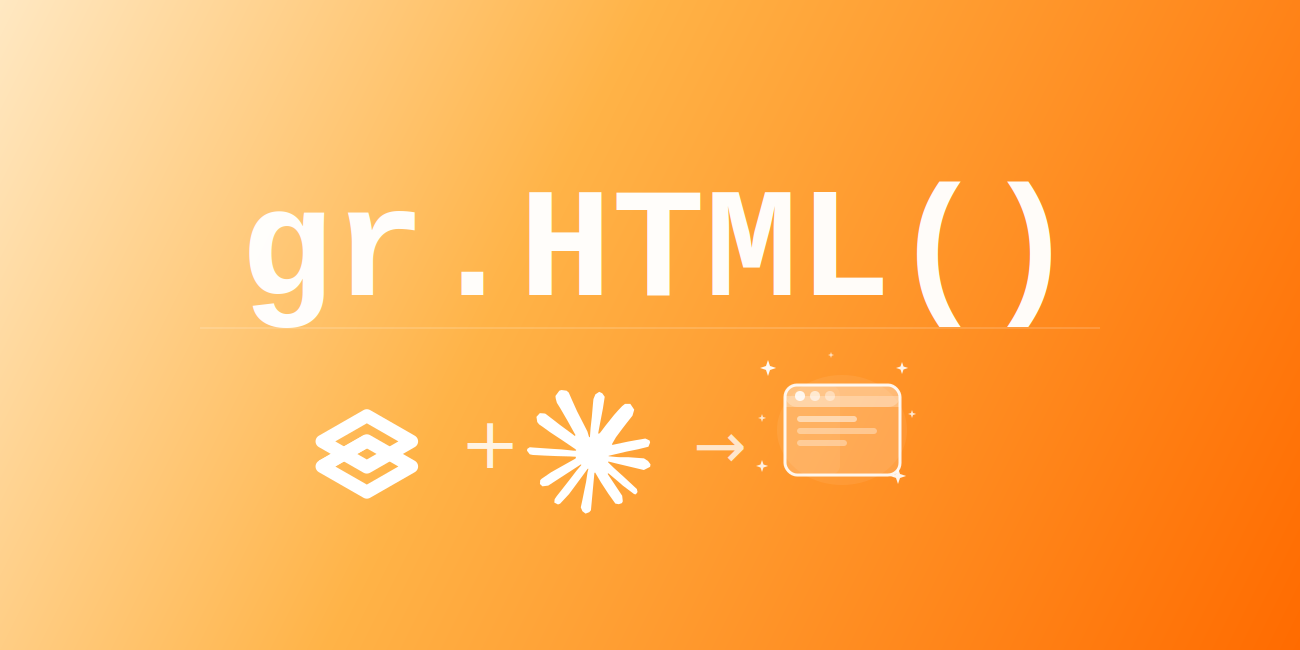
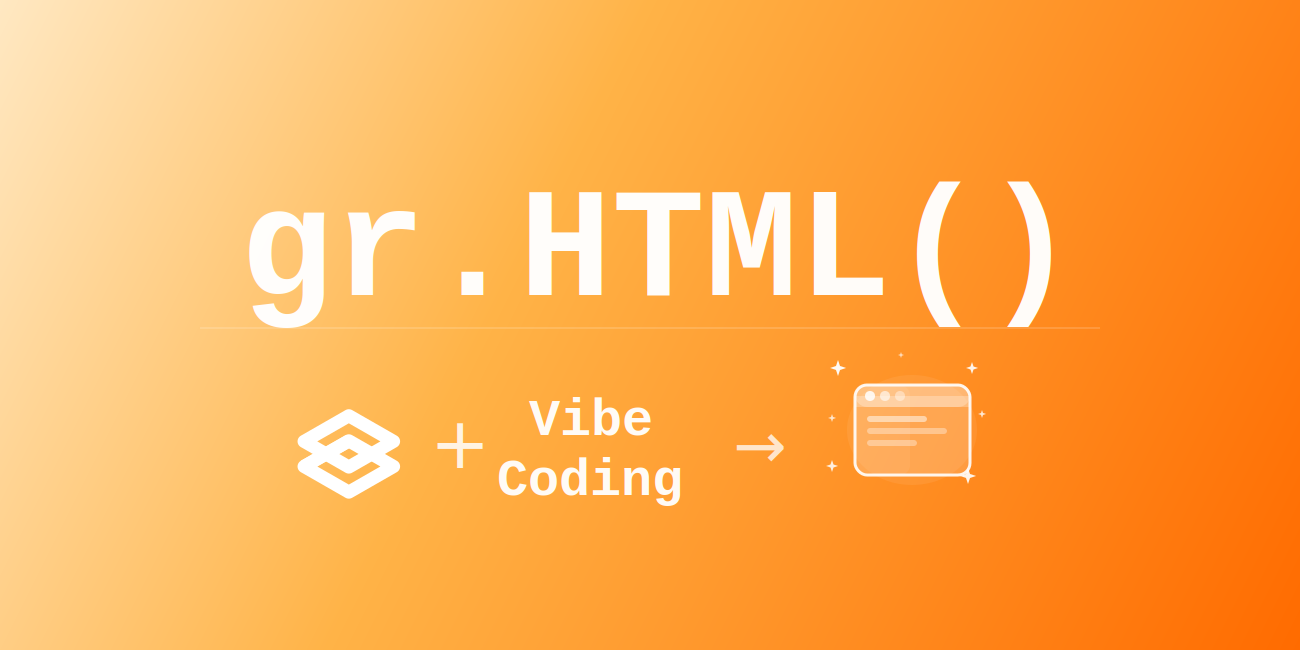
Update blog and thumbnail per review

Changed region(s): [[0.2154, 0.5538, 0.7692, 0.8]]

diff --git a/gradio-html-one-shot-apps.md b/gradio-html-one-shot-apps.md
@@ -9,7 +9,7 @@ authors:
 
 # One-Shot Any Web App with Gradio's gr.HTML
 
-**Gradio 6** quietly shipped a very powerful feature: **`gr.HTML`** now supports custom templates, scoped CSS, and JavaScript interactivity. Which means you can build pretty much any web component — and Claude can generate the whole thing in one shot: frontend, backend, and state management, all in a single Python file.
+**Gradio 6** quietly shipped a very powerful feature: **`gr.HTML`** now supports custom templates, scoped CSS, and JavaScript interactivity. Which means you can build pretty much any web component — and Claude (or any other frontier LLM) can generate the whole thing in one shot: frontend, backend, and state management, all in a single Python file.
 
 We tested this by building different types of apps. Each one is a single Python file, no build step, deployable to Huggingface Spaces in seconds.
 
@@ -85,7 +85,7 @@ Now `Heatmap()` works like `gr.Image()` or `gr.Slider()` — use it in Blocks, w
 
 ## Why This Matters for Vibe Coding
 
-When you ask Claude to build a custom component, single-file output is everything. No "now create the styles file" or "wire this into your build config." Just one Python file that runs immediately.
+When you ask your LLM to build a custom component, single-file output is everything. No "now create the styles file" or "wire this into your build config." Just one Python file that runs immediately.
 
 The feedback loop becomes: describe what you want → get code → `gradio app.py` → see it working → describe what to fix → repeat. Each cycle takes seconds with [gradio's reload mode](https://www.gradio.app/guides/developing-faster-with-reload-mode).
 
@@ -97,7 +97,7 @@ The feedback loop becomes: describe what you want → get code → `gradio app.p
 
 Gradio ships with 32 interactive components, but sometimes your perfect AI web app needs something special. That's where `gr.HTML` comes in. 
 
-If you’ve got an idea, try building it with `gr.HTML`: describe what you want to Claude, generate the code, run it. You might be surprised what you can ship in 5 minutes.
+If you’ve got an idea, try building it with `gr.HTML`: describe what you want to your LLM, generate the code, run it. You might be surprised what you can ship in 5 minutes.
 
 
 Suggested reading:
